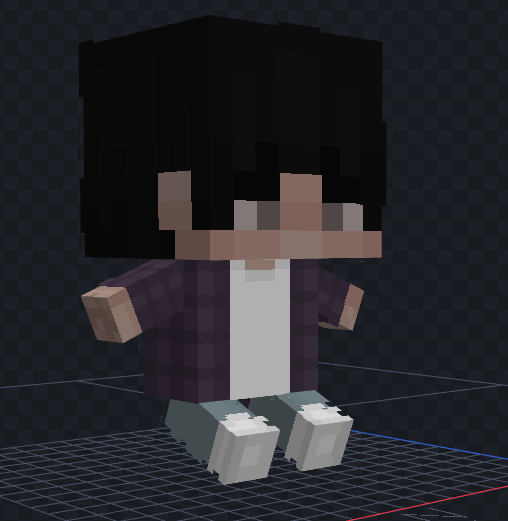
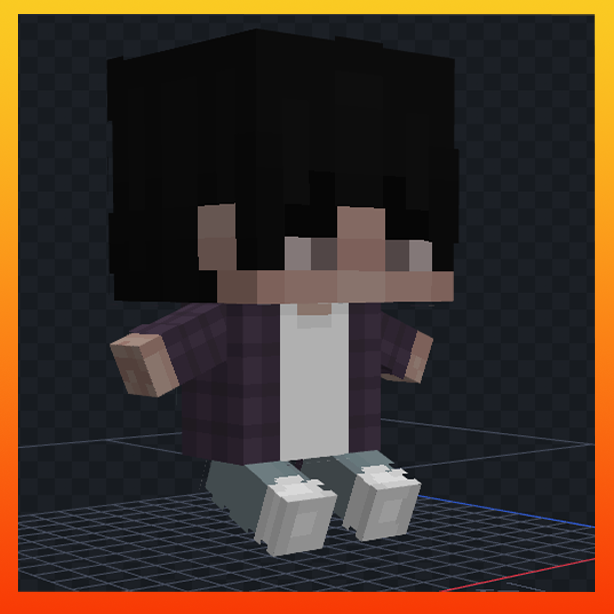
version 3.1

diff --git a/README.md b/README.md
@@ -70,7 +70,7 @@ In conclusion, I would like to say that all these 3 types of resource pack chang
 
 # BONUS / БОНУС
 ## ENG
-The resourcepack comes pre-installed with 9 totem skins, which can be changed by changing the totem name:
+The resourcepack comes pre-installed with 10 totem skins, which can be changed by changing the totem name:
 - Alex - the official standard skin of Mojang.
 - Angel - a spiritual being who communicates the will of God and has supernatural powers.
 - Doomguy - a character from the DOOM series of games.
@@ -80,8 +80,9 @@ The resourcepack comes pre-installed with 9 totem skins, which can be changed by
 - Notch - the creator of Minecraft.
 - Steve - the official default skin of Mojang.
 - TheReizi - the creator of this resource pack.
+- Demongirl - supernatural being inferior to the gods
 ## RUS
-В ресурспаке предустановлено 9 скинов на тотем, которые можно сменить через изменения названия тотема:
+В ресурспаке предустановлено 10 скинов на тотем, которые можно сменить через изменения названия тотема:
 - Алекс - официальный стандартный скин Mojang.
 - Ангел -  духовное существо, сообщающее волю Бога и обладающее сверхъестественными возможностями.
 - Думгай - персонаж из серии игр 'DOOM'.
@@ -91,3 +92,4 @@ The resourcepack comes pre-installed with 9 totem skins, which can be changed by
 - Нотч - создатель Minecraft.
 - Стив - официальный стандартный скин Mojang.
 - ЗеРейзи - создатель данного ресурспака.
+- Дьяволица - сверхъестественное существо, занимающее низшее по сравнению с богами положение
